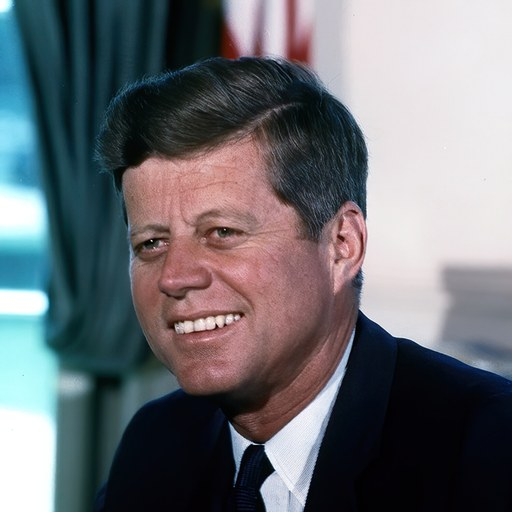
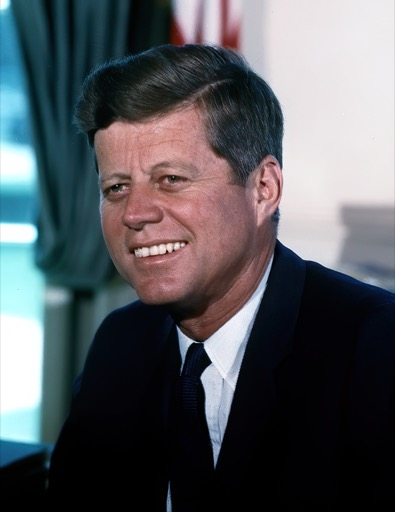
feat(playground): replace preset faces with vetted public-domain figures (Einstein, JFK, Tesla, Lincoln, Curie); drop estate-protected ones

diff --git a/src/components/playground/FaceswapPlayground.tsx b/src/components/playground/FaceswapPlayground.tsx
@@ -22,12 +22,14 @@ const DEMO_SECONDS = 30;
 const PER_PLAY_SECONDS = 30; // used for queue ETA estimate
 const HALO_HREF = "/halo";
 
+// Public-domain figures only (likeness rights expired + photo confirmed PD,
+// links vetted by the team). No living/recent estates. See /public/playground-faces.
 const PRESET_FACES: { label: string; url: string }[] = [
-  { label: "Audrey Hepburn", url: "/playground-faces/hepburn.jpg" },
   { label: "Einstein", url: "/playground-faces/einstein.jpg" },
   { label: "JFK", url: "/playground-faces/jfk.jpg" },
-  { label: "Steve Jobs", url: "/playground-faces/jobs.jpg" },
-  { label: "Princess Diana", url: "/playground-faces/diana.jpg" },
+  { label: "Tesla", url: "/playground-faces/tesla.jpg" },
+  { label: "Lincoln", url: "/playground-faces/lincoln.jpg" },
+  { label: "Curie", url: "/playground-faces/curie.jpg" },
 ];
 
 async function urlToBase64(url: string): Promise<string> {